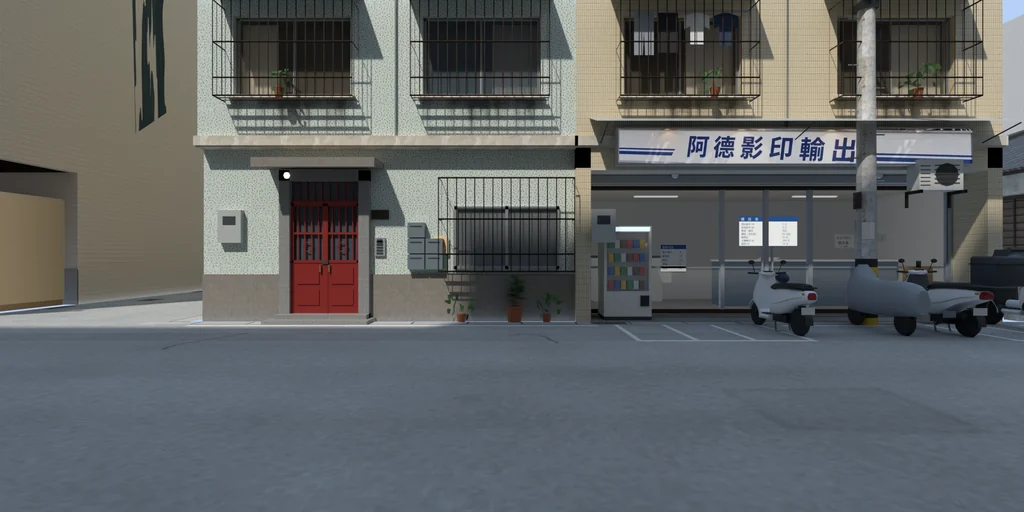
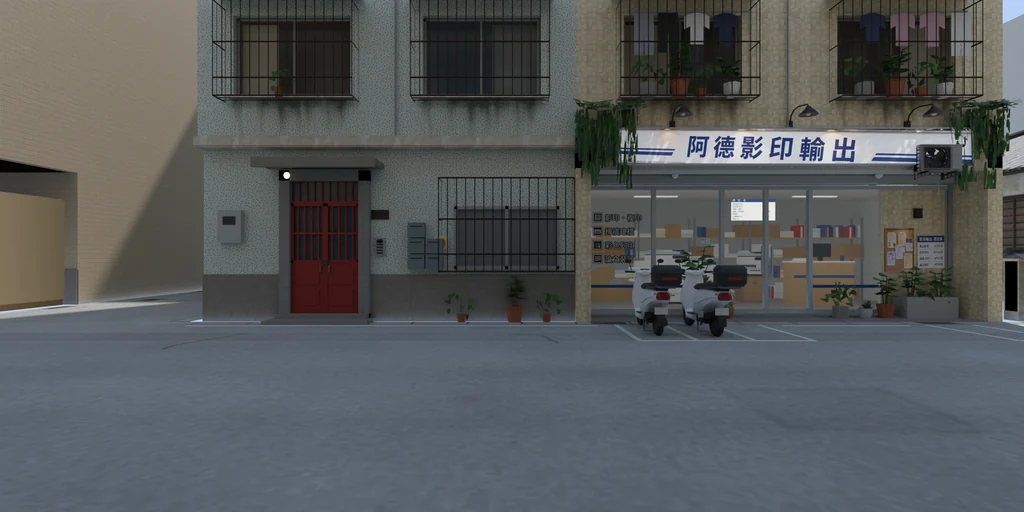
小路窗景第二版（LAWWW2-C 3182a6040，KOMICHI-VIEW-POLISH-1104）：白天照遊戲 14:00 的太陽、晚上路燈往下照；子代理 aa687 檢查點換成 21:57
兩張 webp＋wz_window_view.py（--hour、--pools）；cafe230_aa657、wz_interiors_aa659、te_komichi_stage ALL PASS；BB 選 ①A／B、②14:00／16:00，CC 截圖。

Claude-Session: https://claude.ai/code/session_01Me1thu8Zn934H58kWKNfuF

diff --git a/tools/blender/env_second/wz_window_view.py b/tools/blender/env_second/wz_window_view.py
@@ -1,7 +1,7 @@
 """溫州街店家的窗景照片（給 W3.windowMat 的 <名稱>_<day|night>.webp）：用遊戲裡同一批溫州街正式模型在 Blender 拍（LAWWW2-C 2026-11-04，KOMICHI-NIGHTVIEW-1104）。
 原因：小路（wz_teishoku）的窗景是 10-22 在遊戲裡 20:30 拍的，街上亮得像黃昏，BB-C 判「22:00 窗外還是白天」（BB_255 1(a)）；2:30 AM、SUNNY SIDE 的窗景卡是 Blender 拍的夜景（窗、店、路燈亮，天空暗），這支照同一個做法。
 鏡頭照 tools/shots/shop_views_layers.py 的同一個名稱（窗那一片的中心、朝外、水平 90°、2:1）：W3.windowMat 的視差以那一片為準，換照片不用改程式。
-用法：/opt/blenv/bin/python tools/blender/env_second/wz_window_view.py -- --eye x,y,z --at x,y,z --out <png> [--night] [--res 1024x512] [--samples 96] [--glb a.glb,b.glb,...] [--lens 18] [--copy none|moved|stay] [--place 路徑@x,y,z,ry ...] [--shift-y 0]（參考圖鏡頭：水平鏡頭＋鏡頭上下平移，ADE-V2-1104）
+用法：/opt/blenv/bin/python tools/blender/env_second/wz_window_view.py -- --eye x,y,z --at x,y,z --out <png> [--night] [--res 1024x512] [--samples 96] [--glb a.glb,b.glb,...] [--lens 18] [--copy none|moved|stay] [--place 路徑@x,y,z,ry ...] [--shift-y 0]（參考圖鏡頭：水平鏡頭＋鏡頭上下平移，ADE-V2-1104）[--hour 14]（太陽照遊戲那個時刻）[--pools 光圈.json --pool-w 220]（晚上路燈往下照的一圈光）
   座標是遊戲座標（x 東、y 上、z 南）；--glb 沒寫＝溫州街主巷、雜物、日式宿舍、小公園（assets/models/env/second_ai/）。
 例（小路）：-- --eye -2.8,1.25,-4.6 --at -2.8,1.25,40 --out /tmp/wz_teishoku_night.png --night
 夜晚的亮度照遊戲 zones3d.js 的 WZ_NIGHT（材質名 → 顏色、晚上亮度），GLOW_* 空節點（extras glow／size／night）放點光源；店內（wz_in_*）晚上自己發一點光（店裡開著燈）。"""
@@ -171,7 +171,30 @@ else:
     bg.inputs['Color'].default_value = (0.42, 0.58, 0.85, 1); bg.inputs['Strength'].default_value = 1.1
     sd = bpy.data.lights.new('sun', 'SUN'); sd.energy = 3.2; sd.color = (1.0, 0.96, 0.9); sd.angle = math.radians(1.5)
 so = bpy.data.objects.new('sun', sd); sc.collection.objects.link(so)
-so.rotation_euler = (math.radians(38), 0, math.radians(float(opt('--sun-z', '150'))))   # 11:00 前後：太陽在南偏東、仰角約 52°（Blender −y＝遊戲 +z＝南）；--sun-z：繞垂直軸轉幾度（比對參考圖材質用，例如 A 側朝北的店面打正面光：--sun-z 330）
+# --hour：太陽照遊戲 engine3d.js 的 KEY0（時、仰角、羅盤方位；戶外 x 東、−z 北，溫州街沒有 sunYaw）——KOMICHI-VIEW-POLISH（BB 14:04「白天太陽照遊戲 14:00、有斜影子」）
+GAME_SUN = [(5.5, 2, 80), (7, 12, 88), (9, 32, 100), (12, 68, 150), (15, 45, 225), (17, 26, 262), (18, 13, 268), (18.6, 3, 272), (19.2, -2, 276), (21, -10, 280), (24, -10, 280)]
+def game_sun(h):
+    hq = round(h * 20) / 20; i = 0
+    while i < len(GAME_SUN) - 2 and GAME_SUN[i + 1][0] <= hq: i += 1
+    a, b = GAME_SUN[i], GAME_SUN[i + 1]; t = max(0.0, min(1.0, (hq - a[0]) / (b[0] - a[0])))
+    return math.radians(a[1] + (b[1] - a[1]) * t), math.radians(a[2] + (b[2] - a[2]) * t)
+if opt('--hour') and not opt('--sun-z'):
+    el, az = game_sun(float(opt('--hour')))
+    to_sun = Vector((math.cos(el) * math.sin(az), math.sin(el), -math.cos(el) * math.cos(az)))   # 遊戲座標：從地面往太陽
+    so.rotation_euler = (-g2b(to_sun)).to_track_quat('-Z', 'Y').to_euler()                      # 太陽燈照 −Z：光走的方向＝往太陽的反方向
+    print('sun', opt('--hour'), 'elev %.1f az %.1f' % (math.degrees(el), math.degrees(az)), flush=True)
+else:
+    so.rotation_euler = (math.radians(38), 0, math.radians(float(opt('--sun-z', '150'))))   # 舊的固定角度（沒給 --hour）；--sun-z：繞垂直軸轉幾度（比對參考圖材質用，例如 A 側朝北的店面打正面光：--sun-z 330）
+
+# --pools <json：[{x,z,r,h}]>：晚上路燈往下照的一圈光（遊戲是 TK.lightPool 地面光圈；這裡放往下的聚光燈，範圍＝光圈半徑、燈頭高度 h）——KOMICHI-VIEW-POLISH ①
+npool = 0
+if NIGHT and opt('--pools') and os.path.exists(opt('--pools')):
+    import json as _jp
+    for q in _jp.load(open(opt('--pools'))):
+        ld = bpy.data.lights.new('pool', 'SPOT'); ld.color = hexcol(0xffd696); ld.energy = float(opt('--pool-w', '220')); ld.shadow_soft_size = 0.12
+        ld.spot_size = min(math.radians(160), 2 * math.atan(q['r'] / q['h']) * 1.1); ld.spot_blend = 0.45
+        lo = bpy.data.objects.new('pool', ld); sc.collection.objects.link(lo); lo.location = g2b((q['x'], q['h'] - 0.15, q['z'])); lo.rotation_euler = (0, 0, 0); npool += 1   # 聚光燈照 −Z＝往下
+    print('pools', npool, flush=True)
 
 # 鏡頭：窗那一片的中心、朝外，水平 90°（2:1 → 垂直 53.13°）
 cd = bpy.data.cameras.new('cam'); cd.sensor_fit = 'HORIZONTAL'; cd.sensor_width = 36.0; cd.lens = float(opt('--lens', '18')); cd.shift_y = float(opt('--shift-y', '0')); cd.clip_start = 0.05; cd.clip_end = 400
